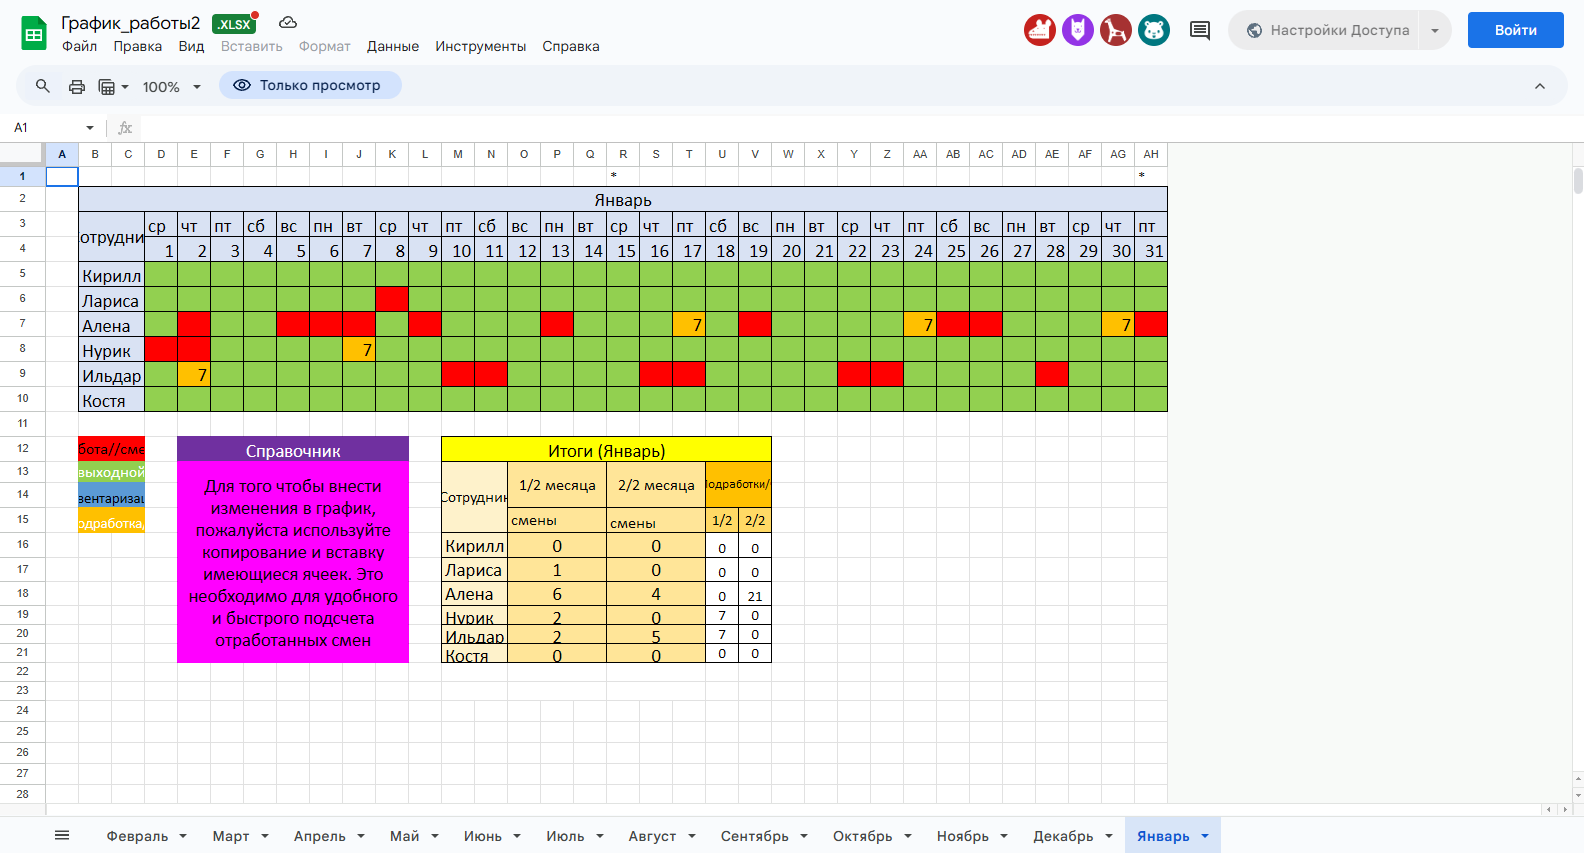
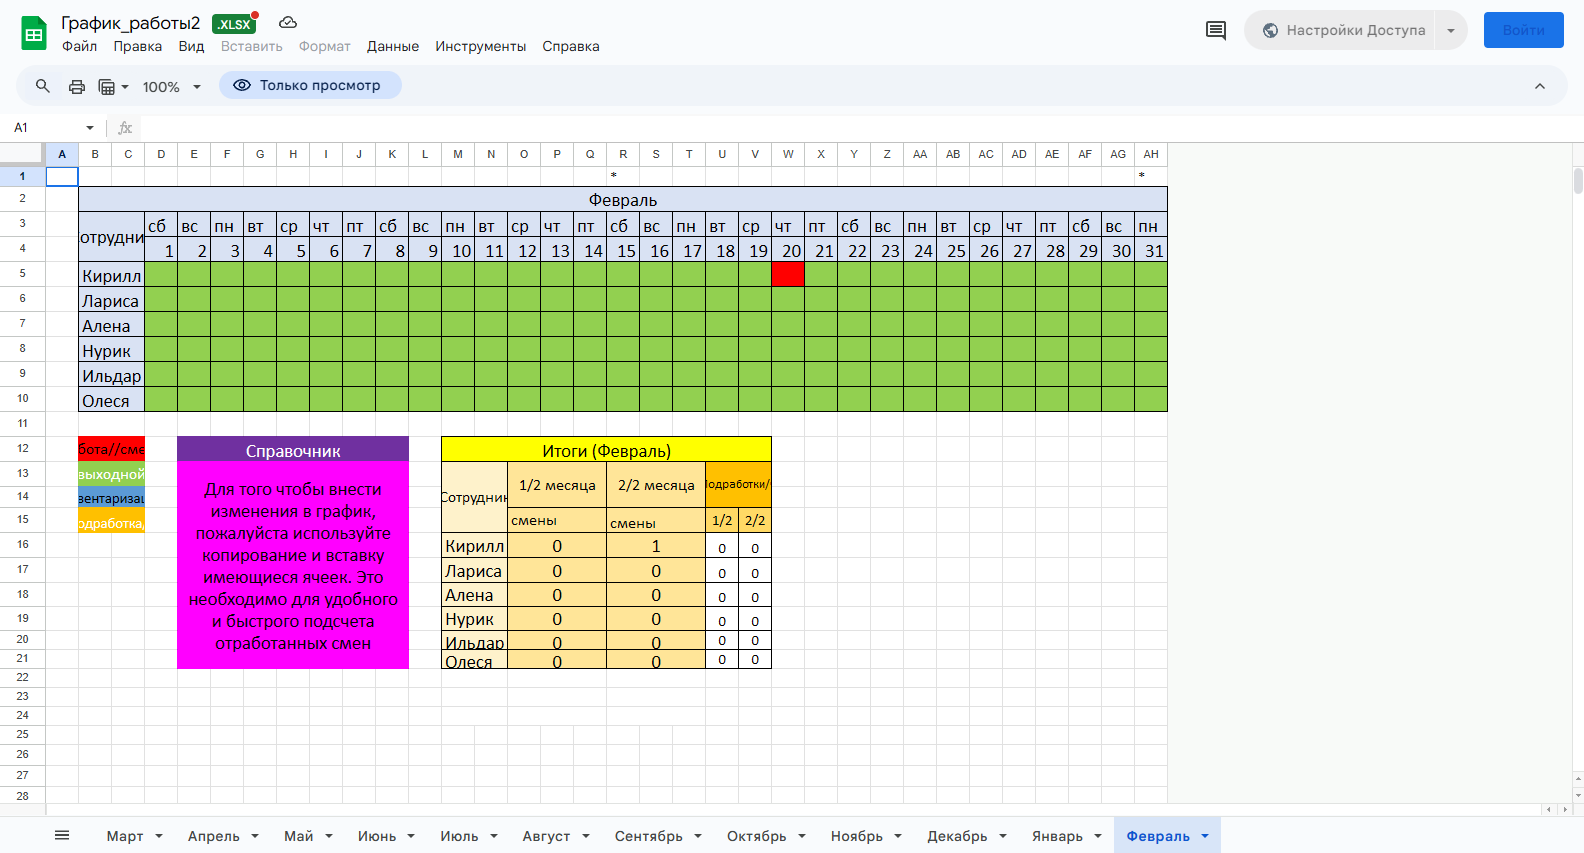
Удаление Добавление Создание

diff --git a/main.py b/main.py
@@ -1,3 +1,7 @@
+import datetime
+import json
+import os
+
 from telebot import types
 from telebot.types import BotCommand, InlineKeyboardMarkup, \
     InlineKeyboardButton
@@ -10,18 +14,54 @@ from edit_charts.data_file import DataCharts
 from edit_charts.adduser import AddUser
 from edit_charts.edit_smens import Editsmens
 from edit_charts.get_img_xl import Image
+import threading
+import time
+import schedule
+
+# Создаем экземпляр бота
+bot = telebot.TeleBot(data_config['my_telegram_bot']['bot_token'], parse_mode='HTML')
+user_ids = set()
+USER_IDS_FILE = 'user_ids.json'
+
+
+def load_user_ids():
+    if os.path.exists(USER_IDS_FILE):
+        with open(USER_IDS_FILE, 'r') as file:
+            return set(json.load(file))
+    return set()
+
+
+def save_user_ids(user_ids):
+    with open(USER_IDS_FILE, 'w') as file:
+        json.dump(list(user_ids), file)
+
+
+def create_new_chart():
+    new = CreateChart()
+    result = new.new_chart()
+    for user_id in load_user_ids():
+        if result:
+            bot.send_message(user_id, 'Создан график на новый месяц, необходимо заполнить')
+        else:
+            bot.send_message(user_id,
+                             'Была попытка создать новый график, что то пошло не так, необходимо проверить')
+
 
 # Отключаем предупреждения
 urllib3.disable_warnings(urllib3.exceptions.InsecureRequestWarning)
 
-# Создаем экземпляр бота
-bot = telebot.TeleBot(data_config['my_telegram_bot']['bot_token'],
-                      parse_mode='HTML')
+
+def job():
+    if datetime.datetime.now().day == 20:
+        create_new_chart()
+
+
+schedule.every().day.at("12:00").do(job)
 
 
 class Main:
     # дополнительный аргумент, для создания нового листа
-    def __init__(self, new_chart=None):
+    def __init__(self):
         self.selected_number = None
         self.status_dict = {}
         self.smens = None
@@ -41,8 +81,6 @@ class Main:
         self.actualy_months = None
         # если передался параметр на создание графика, то выполняем фукнцию, которая создаться график на новый месяц
         self.input_enabled = False  # Флаг для контроля ввода
-        if new_chart:
-            CreateChart()
         self.delete_user = None
         self.table_data = None
         self.start_main()
@@ -74,6 +112,8 @@ class Main:
         @bot.message_handler(commands=['start'])
         def handle_start_main(message):
             self.user_id = message.chat.id
+            user_ids.add(self.user_id)
+            save_user_ids(user_ids)
             # Удаляем сообщения в диапазоне
             for id_ in range(message.message_id - 10, message.message_id + 1):
                 try:
@@ -85,7 +125,6 @@ class Main:
 
         @bot.message_handler(commands=['back'])
         def handle_back(message):
-            print(self.state_stack)
             last_state = None
             try:
                 last_state = self.state_stack.pop()
@@ -134,8 +173,6 @@ class Main:
                 self.state_stack.append(self.call.data)
                 self.smens_users()
             elif self.call.data == 'get_image':
-                print(self.call.data)
-                print(self.state_stack)
                 self.state_stack.append(self.call.data)
                 image = Image()
                 # Создаем новую клавиатуру с кнопками
@@ -270,14 +307,6 @@ class Main:
         # Отправляем изображение
         with open(r'C:\Users\kiraf\PycharmProjects\grafic_pfz\months.png', 'rb') as photo:
             bot.send_photo(self.call.message.chat.id, photo)
-
-        # # Создаем клавиатуру
-        # self.markup = types.InlineKeyboardMarkup()
-        # item1 = types.InlineKeyboardButton("           Назад           ", callback_data='start_command')
-        # self.markup.add(item1)
-        #
-        # # Отправляем пустое сообщение с клавиатурой
-        # bot.send_message(self.call.message.chat.id, "", reply_markup=self.markup)
 
     def show_month_selection(self):
         self.markup = InlineKeyboardMarkup()
@@ -534,6 +563,14 @@ class Main:
         )
 
 
-# Main(sys.argv)
+def run_schedule():
+    while True:
+        schedule.run_pending()
+        time.sleep(1)
+
+
+# Запускаем планировщик в отдельном потоке
+schedule_thread = threading.Thread(target=run_schedule)
+schedule_thread.start()
 Main()
 bot.infinity_polling(timeout=90, long_polling_timeout=5)

diff --git a/edit_charts/create_new_chart.py b/edit_charts/create_new_chart.py
@@ -21,7 +21,6 @@ class CreateChart:
         self.weekdays = ['пн', 'вт', 'ср', 'чт', 'пт', 'сб', 'вс']
         self.list_days_2 = {28: "AE", 29: "AF", 30: "AG", 31: "AH",
                             32: "AI", 33: "AJ", 34: "AK"}
-        self.new_chart()  # запускаем основную функцию по созданию нового месяца
 
     def add_colls(self, cell, i, new_value):
         # присваиваем скопированному последнему столбцу переменную, где будет все храниться
@@ -58,7 +57,6 @@ class CreateChart:
         self.file.cell(row=1, column=coll - 1).value = '*'
         self.table_data.file.save(
             path_to_test1_json)
-        self.table_data.file.close()
         # проставляем актуальные дни недели
         self.days_week(-count_remove)
         # очищаем таблицу
@@ -84,9 +82,13 @@ class CreateChart:
             for col in range(4, self.file.max_column + 1):
                 cell = self.file.cell(row=row, column=col)
                 cell.value = None  # Устанавливаем значение на None
-                cell.font = get_font_style('green')[0]  # Применяем стиль шрифта
-                cell.fill = get_font_style('green')[
-                    1]  # Применяем стиль заливки # Устанавливаем значение на None
+                cell.border = get_font_style('green')[0]
+                cell.font = get_font_style('green')[1]
+                cell.fill = get_font_style('green')[2]
+                cell.number_format = get_font_style('green')[3]
+                cell.protection = get_font_style('green')[4]
+                cell.alignment = get_font_style('green')[5]
+                cell.value = get_font_style('green')[6]
 
     # простовляем актуальные дни недели для нового месяца
     def days_week(self, count_add):
@@ -130,6 +132,8 @@ class CreateChart:
 
     # новый график
     def new_chart(self):
+        if self.table_data.last_list.title == self.table_data.list_months[self.table_data.data_months()[3]]:
+            return 'Добавление не требуется, данный месяц уже есть'
         # Перед созданием нового листа, сначала удаляем старый с таким же названием
         for sheet in self.table_data.file.worksheets:
             if self.table_data.list_months[self.table_data.data_months()[3]] in sheet.title:
@@ -137,7 +141,7 @@ class CreateChart:
 
         self.table_data.file.save(
             path_to_test1_json)
-        self.table_data.file.close()
+
         # Создаем копию крайнего месяца
         self.file = self.table_data.file.copy_worksheet(self.table_data.last_list)
         # изменяем название страницы (следующий месяц)
@@ -151,7 +155,7 @@ class CreateChart:
         last_coll = len(self.table_data.ineration_all_last_table(min_row=2, max_row=2))
         # перед добавление или удалением новых ячеек , сначала нужно разъеденить все ячейки, которые взаимодиествуют
         # при добавлении новых
-        self.file.unmerge_cells(start_row=2, start_column=2, end_row=2, end_column=last_coll)
+        self.file.unmerge_cells(start_row=2, start_column=2, end_row=2, end_column=int(self.file.max_column))
         # дальше определяем что нужно сделать с ячейки, добавить или удалить по нашему выводу:
         # если будет вычитание , то преобразовываем в положительно число
         count_edit_coll = abs(self.table_data.data_months()[1])
@@ -166,9 +170,12 @@ class CreateChart:
             self.days_week(self.table_data.data_months()[1])
 
         # после всех обработок объединяем обратно
-        self.file.merge_cells(start_row=2, start_column=2, end_row=2,
-                              end_column=last_coll + self.table_data.data_months()[1])
+        self.file.merge_cells(start_row=2, start_column=2, end_row=2 ,end_column=int(self.file.max_column))
 
         self.table_data.file.save(
             path_to_test1_json)
-        self.table_data.file.close()
+        table = DataCharts()
+        if self.table_data.list_months[self.table_data.data_months()[3]] in table.last_list.title:
+            return True
+        else:
+            return False

diff --git a/edit_charts/data_file.py b/edit_charts/data_file.py
@@ -3,8 +3,7 @@ from openpyxl.styles import *
 from datetime import datetime
 import calendar
 from config.auto_search_dir import path_to_test1_json
-import subprocess
-import time
+
 
 
 # функция для получeния стилизации нужных ячеек
@@ -52,7 +51,7 @@ def get_font_style(color):
         hidden=False
     )
     if color == 'green':
-        pass
+        return [thin_border, font_style, fill_style, number_format, protection_style, alignment_style, value]
     elif color == 'red':
         value = 1
         font_style.color = 'FF0000'
@@ -92,34 +91,6 @@ class DataCharts:
                 break
         return users
 
-    def start_onedrive(self):
-        # Команда для запуска связанных процессов OneDrive
-        script_text = """
-        Start-Process 'C:\\Program Files\\Microsoft OneDrive\\OneDrive.exe';
-        #Start-Process 'C:\\Program Files\\Microsoft OneDrive\\OneDriveFileCoAuthoring.exe';
-        #Start-Process 'C:\\Program Files\\Microsoft OneDrive\\FileSyncHelper.exe';
-        #Start-Process 'C:\\Program Files\\Microsoft OneDrive\\OneDriveSyncClient.exe'
-        """
-        completed_process = subprocess.run(['powershell', '-Command', script_text], capture_output=True)
-
-        if completed_process.returncode == 0:
-            print("OneDrive и связанные процессы запущены успешно.")
-        else:
-            print("Ошибка при запуске OneDrive:", completed_process.stderr.decode())
-    def stop_onedrive(self):
-        # Команда для остановки всех связанных процессов OneDrive
-        script_text = """
-        Stop-Process -Name OneDrive -Force;
-        #Stop-Process -Name 'OneDriveFileCoAuthoring' -Force;
-        #Stop-Process -Name 'FileSyncHelper' -Force;
-        #Stop-Process -Name 'OneDriveSyncClient' -Force
-        """
-        completed_process = subprocess.run(['powershell', '-Command', script_text], capture_output=True)
-
-        if completed_process.returncode == 0:
-            print("OneDrive и связанные процессы остановлены успешно.")
-        else:
-            print("Ошибка при остановке OneDrive:", completed_process.stderr.decode())
     def data_months(self):
         # Получаем текущую дату
         current_date = datetime.now()
@@ -153,7 +124,7 @@ class DataCharts:
         new_index = month % len(self.list_months)
         # количество дней в следующем месяце, разницу в днях,  индекс текущего месяца, индекс следующего месяца
         difference = [current_month_days,
-                      (next_month_days - current_month_days) + 5, month - 1, new_index, first_weekday_next_month]
+                      (next_month_days - current_month_days) + 3, month -1 , new_index, first_weekday_next_month]
         return difference
 
     # функция для получения нужные данных

diff --git a/config/auto_search_dir.py b/config/auto_search_dir.py
@@ -22,11 +22,11 @@ project_folder_name = os.path.basename(path_to_project_folder)
 
 # находим основной запускающий файл
 path_to_main = find_file_in_project(f'{project_folder_name}.py',
-                                           path_to_project_folder)
+                                    path_to_project_folder)
 
 # Ищем файл python.exe
 path_to_python_exe = find_file_in_project('python.exe',
-                                             path_to_project_folder)
+                                          path_to_project_folder)
 
 # Ищем файл config.json и получаем его путь
 path_to_config_json = find_file_in_project('config.json',
@@ -36,10 +36,7 @@ path_to_config_json = find_file_in_project('config.json',
 #                                           path_to_project_folder)
 # path_to_test1_json =  r"C:\Users\kiraf\OneDrive\Документы\График_работы2.xlsx"
 
-path_to_test1_json =  r"G:\Мой диск\График_работы2.xlsx"
+path_to_test1_json = r"G:\Мой диск\График_работы2.xlsx"
 # Преобразуем содержимое файла
 with open(path_to_config_json, 'r', encoding='utf-8') as file:
     data_config = json.load(file)
-
-
-

diff --git a/edit_charts/get_img_xl.py b/edit_charts/get_img_xl.py
@@ -46,5 +46,3 @@ class Image:
         finally:
             # Закрытие драйвера
             self.driver.quit()
-test = Image()
-test.get_image('Январь')
